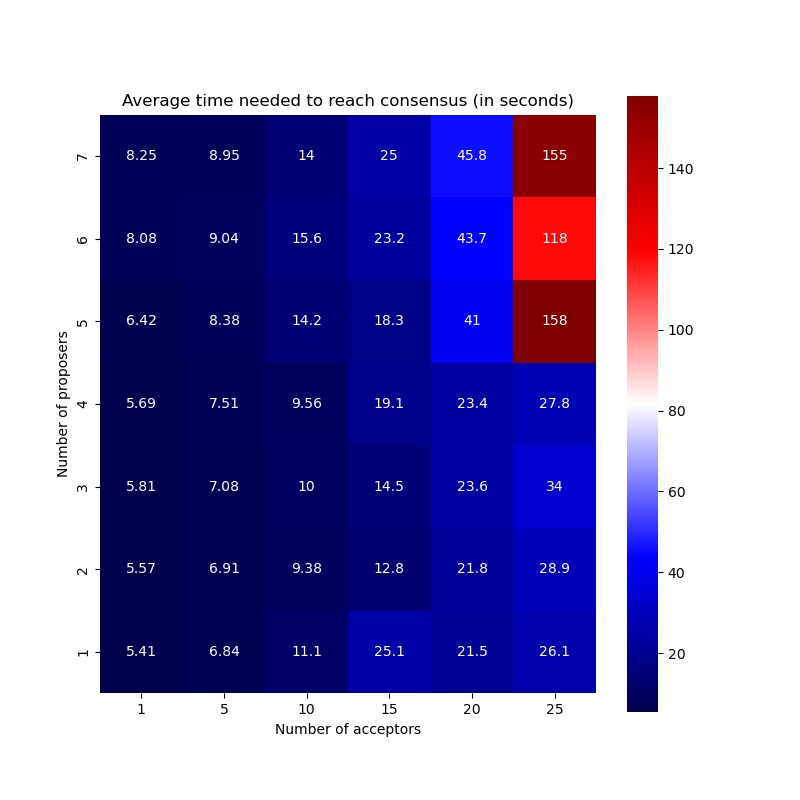
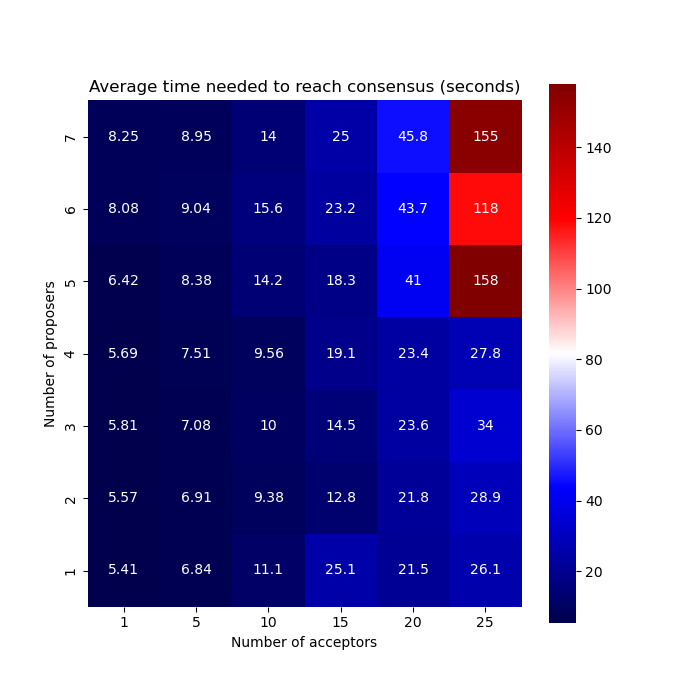
Experiments number of agents

diff --git a/experiments/number_of_nodes.py b/experiments/number_of_nodes.py
@@ -5,14 +5,12 @@ import matplotlib.pyplot as plt
 
 from paxos.basic_protocol import ReliableMessenger, UnreliableMessenger, Assembly
 
-NB_PROPOSERS = range(1, 8)
-NB_ACCEPTORS = [1, 5, 10, 15, 20, 25]
-NB_SIMULATIONS = 10
-
 
 # No failure, no delay
-
-def no_failure(precomputed=True):
+def no_failure(precomputed=False):
+    NB_PROPOSERS = range(1, 8)
+    NB_ACCEPTORS = [1, 5, 10, 15, 20, 25]
+    NB_SIMULATIONS = 10
     if precomputed:
         TIMES = pd.read_csv('number_of_nodes_no_failure.csv', index_col=0)
     else:
@@ -34,16 +32,94 @@ def no_failure(precomputed=True):
 
         pd.DataFrame(data=TIMES, columns=NB_ACCEPTORS, index=NB_PROPOSERS).to_csv('number_of_nodes_no_failure.csv')
 
-    fig, ax = plt.subplots(figsize=(8, 8))
+    fig, ax = plt.subplots(figsize=(7, 7))
     sns.heatmap(data=TIMES, annot=True, fmt='.3g', cmap='seismic', square=True, ax=ax)
     ax.set_ylabel("Number of proposers")
     ax.set_yticklabels(NB_PROPOSERS)
     ax.invert_yaxis()
     ax.set_xlabel("Number of acceptors")
     ax.set_xticklabels(NB_ACCEPTORS)
-    ax.set_title("Average time needed to reach consensus (in seconds)")
+    ax.set_title("Average time needed to reach consensus (seconds)")
     fig.savefig('number_of_nodes_no_failure.png')
+
+
+# Failure from the acceptors only
+def acceptor_failure(precomputed=False):
+    NB_PROPOSERS = [1, 2, 3]
+    NB_ACCEPTORS = [1, 3, 5, 7, 9, 11, 13, 15, 17, 19]
+    NB_SIMULATIONS = 10
+    if precomputed:
+        TIMES = pd.read_csv('number_of_nodes_acceptor_failure.csv', index_col=0)
+    else:
+        TIMES = []
+        for nb_prop in NB_PROPOSERS:
+            TIMES.append([])
+            for nb_acc in NB_ACCEPTORS:
+                TIMES[-1].append(0)
+                for _ in range(NB_SIMULATIONS):
+                    print(f" === NEW INSTANCE OF THE ALGORITHM ({nb_prop} PROPOSERS, {nb_acc} ACCEPTORS) === ")
+                    messenger = ReliableMessenger()
+                    assembly = Assembly(
+                        n_proposers=nb_prop, n_acceptors=nb_acc, messenger=messenger, acceptor_fail_rate=1e-7
+                    )
+                    for proposer in assembly.proposers:
+                        proposer.period = datetime.timedelta(seconds=10)
+                    begin = datetime.datetime.now()
+                    result = assembly.start()
+                    end = datetime.datetime.now()
+                    TIMES[-1][-1] += (end - begin).total_seconds() / NB_SIMULATIONS
+
+        TIMES = pd.DataFrame(data=TIMES, columns=NB_ACCEPTORS, index=NB_PROPOSERS)
+        TIMES.to_csv('number_of_nodes_acceptor_failure.csv')
+
+    TIMES['Proposers'] = TIMES.index.to_series()
+    TIMES = pd.melt(TIMES, id_vars=['Proposers'], value_vars=map(str, NB_ACCEPTORS), var_name='Acceptors', value_name='Time')
+
+    fig, ax = plt.subplots(figsize=(6, 6))
+    sns.lineplot(data=TIMES, x='Acceptors', y='Time', hue='Proposers', ax=ax)
+    ax.set_title('Average time needed to achieve a consensus (seconds)')
+    fig.savefig('number_of_nodes_acceptor_failure.png')
+
+
+# Failure from the proposers only
+def proposer_failure(precomputed=False):
+    NB_PROPOSERS = range(1, 6)
+    NB_ACCEPTORS = [1, 5, 10, 15, 20]
+    NB_SIMULATIONS = 10
+    if precomputed:
+        TIMES = pd.read_csv('number_of_nodes_proposer_failure.csv', index_col=0)
+    else:
+        TIMES = []
+        for nb_prop in NB_PROPOSERS:
+            TIMES.append([])
+            for nb_acc in NB_ACCEPTORS:
+                TIMES[-1].append(0)
+                for _ in range(NB_SIMULATIONS):
+                    print(f" === NEW INSTANCE OF THE ALGORITHM ({nb_prop} PROPOSERS, {nb_acc} ACCEPTORS) === ")
+                    messenger = ReliableMessenger()
+                    assembly = Assembly(
+                        n_proposers=nb_prop, n_acceptors=nb_acc, messenger=messenger, proposer_fail_rate=1e-7
+                    )
+                    for proposer in assembly.proposers:
+                        proposer.period = datetime.timedelta(seconds=10)
+                    begin = datetime.datetime.now()
+                    result = assembly.start()
+                    end = datetime.datetime.now()
+                    TIMES[-1][-1] += (end - begin).total_seconds() / NB_SIMULATIONS
+
+        TIMES = pd.DataFrame(data=TIMES, columns=NB_ACCEPTORS, index=NB_PROPOSERS)
+        TIMES.to_csv('number_of_nodes_acceptor_failure.csv')
+
+    TIMES['Proposers'] = TIMES.index.to_series()
+    TIMES = pd.melt(TIMES, id_vars=['Proposers'], value_vars=map(str, NB_ACCEPTORS), var_name='Acceptors', value_name='Time')
+
+    fig, ax = plt.subplots(figsize=(6, 6))
+    sns.lineplot(data=TIMES, x='Proposers', y='Time', hue='Acceptors', ax=ax)
+    ax.set_title('Average time needed to achieve a consensus (seconds)')
+    fig.savefig('number_of_nodes_proposer_failure.png')
 
 
 if __name__ == '__main__':
     no_failure(precomputed=True)
+    acceptor_failure(precomputed=True)
+    proposer_failure(precomputed=True)
